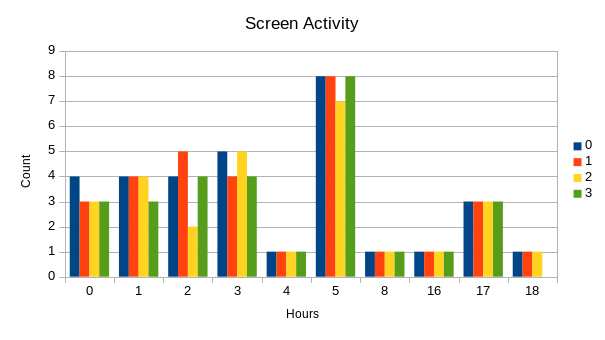
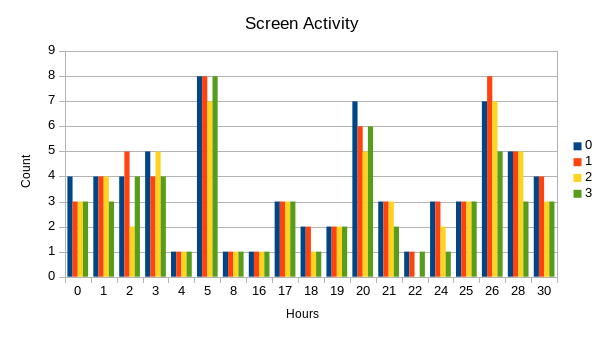
new stuff

Changed region(s): [[0.0893, 0.2059, 0.9223, 0.8824]]

diff --git a/templates/index.html b/templates/index.html
@@ -102,8 +102,16 @@ The "Acceleration over Time" chart can be used to get an idea of when I was trav
 The "Location Map" shows my locations over this same timeperiod.  You can click on the barchart to see the locations I was in for each hour.  The locations are sparse due to the poor quality of my phone's location sensor.  I know I was in more locations than this, but it only captured a few.
 </p>
 <br>
-
+<!--
 <div class='tableauPlaceholder' id='viz1539833140471' style='position: relative'><noscript><a href='#'><img alt=' ' src='https:&#47;&#47;public.tableau.com&#47;static&#47;images&#47;Aw&#47;AwareAccel&#47;Dashboard1&#47;1_rss.png' style='border: none' /></a></noscript><object class='tableauViz'  style='display:none;'><param name='host_url' value='https%3A%2F%2Fpublic.tableau.com%2F' /> <param name='embed_code_version' value='3' /> <param name='site_root' value='' /><param name='name' value='AwareAccel&#47;Dashboard1' /><param name='tabs' value='no' /><param name='toolbar' value='yes' /><param name='static_image' value='https:&#47;&#47;public.tableau.com&#47;static&#47;images&#47;Aw&#47;AwareAccel&#47;Dashboard1&#47;1.png' /> <param name='animate_transition' value='yes' /><param name='display_static_image' value='yes' /><param name='display_spinner' value='yes' /><param name='display_overlay' value='yes' /><param name='display_count' value='yes' /><param name='filter' value='publish=yes' /></object></div>                <script type='text/javascript'>                    var divElement = document.getElementById('viz1539833140471');                    var vizElement = divElement.getElementsByTagName('object')[0];                    vizElement.style.minWidth='420px';vizElement.style.maxWidth='650px';vizElement.style.width='100%';vizElement.style.minHeight='587px';vizElement.style.maxHeight='887px';vizElement.style.height=(divElement.offsetWidth*0.75)+'px';                    var scriptElement = document.createElement('script');                    scriptElement.src = 'https://public.tableau.com/javascripts/api/viz_v1.js';                    vizElement.parentNode.insertBefore(scriptElement, vizElement);                </script>
+-->
+
+<div class='tableauPlaceholder' id='viz1539915362084' style='position: relative'><noscript><a href='#'><img alt=' ' src='https:&#47;&#47;public.tableau.com&#47;static&#47;images&#47;Aw&#47;AwareAccel&#47;Dashboard1&#47;1_rss.png' style='border: none' /></a></noscript><object class='tableauViz'  style='display:none;'><param name='host_url' value='https%3A%2F%2Fpublic.tableau.com%2F' /> <param name='embed_code_version' value='3' /> <param name='site_root' value='' /><param name='name' value='AwareAccel&#47;Dashboard1' /><param name='tabs' value='no' /><param name='toolbar' value='yes' /><param name='static_image' value='https:&#47;&#47;public.tableau.com&#47;static&#47;images&#47;Aw&#47;AwareAccel&#47;Dashboard1&#47;1.png' /> <param name='animate_transition' value='yes' /><param name='display_static_image' value='yes' /><param name='display_spinner' value='yes' /><param name='display_overlay' value='yes' /><param name='display_count' value='yes' /><param name='filter' value='publish=yes' /></object></div>                <script type='text/javascript'>                    var divElement = document.getElementById('viz1539915362084');                    var vizElement = divElement.getElementsByTagName('object')[0];                    vizElement.style.minWidth='420px';vizElement.style.maxWidth='650px';vizElement.style.width='100%';vizElement.style.minHeight='587px';vizElement.style.maxHeight='887px';vizElement.style.height=(divElement.offsetWidth*0.75)+'px';                    var scriptElement = document.createElement('script');                    scriptElement.src = 'https://public.tableau.com/javascripts/api/viz_v1.js';                    vizElement.parentNode.insertBefore(scriptElement, vizElement);                </script>
+
+
+
+
+
 
 
 <p>
@@ -112,13 +120,16 @@ The messages chart shows that I had two text message conversations.  One with my
 
 
 <p>
-The screen pie chart below shows the four screen states of off, on, locked ???.
-</p>
-
-
-<p>
 The last chart shows the screen usage broken out by hour.  I could not figure out how to do multi-barcharts correctly in Tableau so I created this chart elsewhere.
 </p>
+
+
+
+<div class='tableauPlaceholder' id='viz1539915259068' style='position: relative'><noscript><a href='#'><img alt=' ' src='https:&#47;&#47;public.tableau.com&#47;static&#47;images&#47;Aw&#47;AwareAccel&#47;Dashboard2&#47;1_rss.png' style='border: none' /></a></noscript><object class='tableauViz'  style='display:none;'><param name='host_url' value='https%3A%2F%2Fpublic.tableau.com%2F' /> <param name='embed_code_version' value='3' /> <param name='site_root' value='' /><param name='name' value='AwareAccel&#47;Dashboard2' /><param name='tabs' value='no' /><param name='toolbar' value='yes' /><param name='static_image' value='https:&#47;&#47;public.tableau.com&#47;static&#47;images&#47;Aw&#47;AwareAccel&#47;Dashboard2&#47;1.png' /> <param name='animate_transition' value='yes' /><param name='display_static_image' value='yes' /><param name='display_spinner' value='yes' /><param name='display_overlay' value='yes' /><param name='display_count' value='yes' /><param name='filter' value='publish=yes' /></object></div>                <script type='text/javascript'>                    var divElement = document.getElementById('viz1539915259068');                    var vizElement = divElement.getElementsByTagName('object')[0];                    vizElement.style.minWidth='420px';vizElement.style.maxWidth='650px';vizElement.style.width='100%';vizElement.style.minHeight='587px';vizElement.style.maxHeight='887px';vizElement.style.height=(divElement.offsetWidth*0.75)+'px';                    var scriptElement = document.createElement('script');                    scriptElement.src = 'https://public.tableau.com/javascripts/api/viz_v1.js';                    vizElement.parentNode.insertBefore(scriptElement, vizElement);                </script>
+
+
+
+
 
 
 
